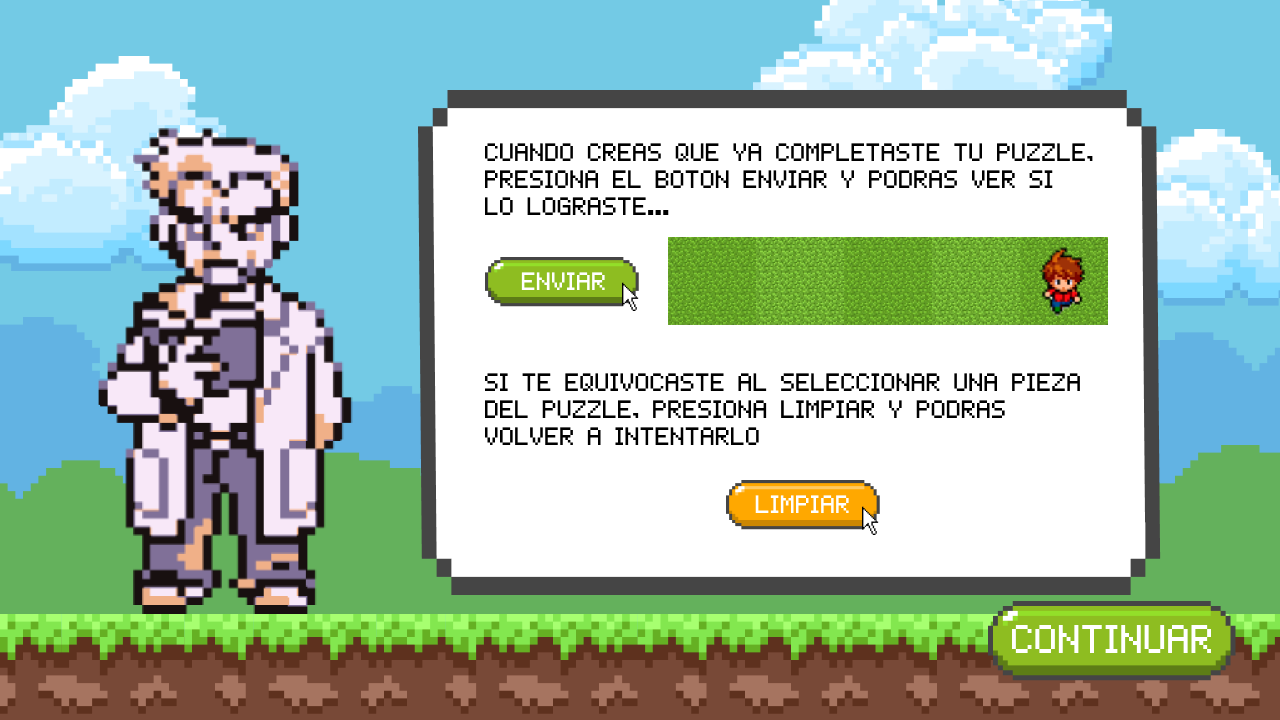
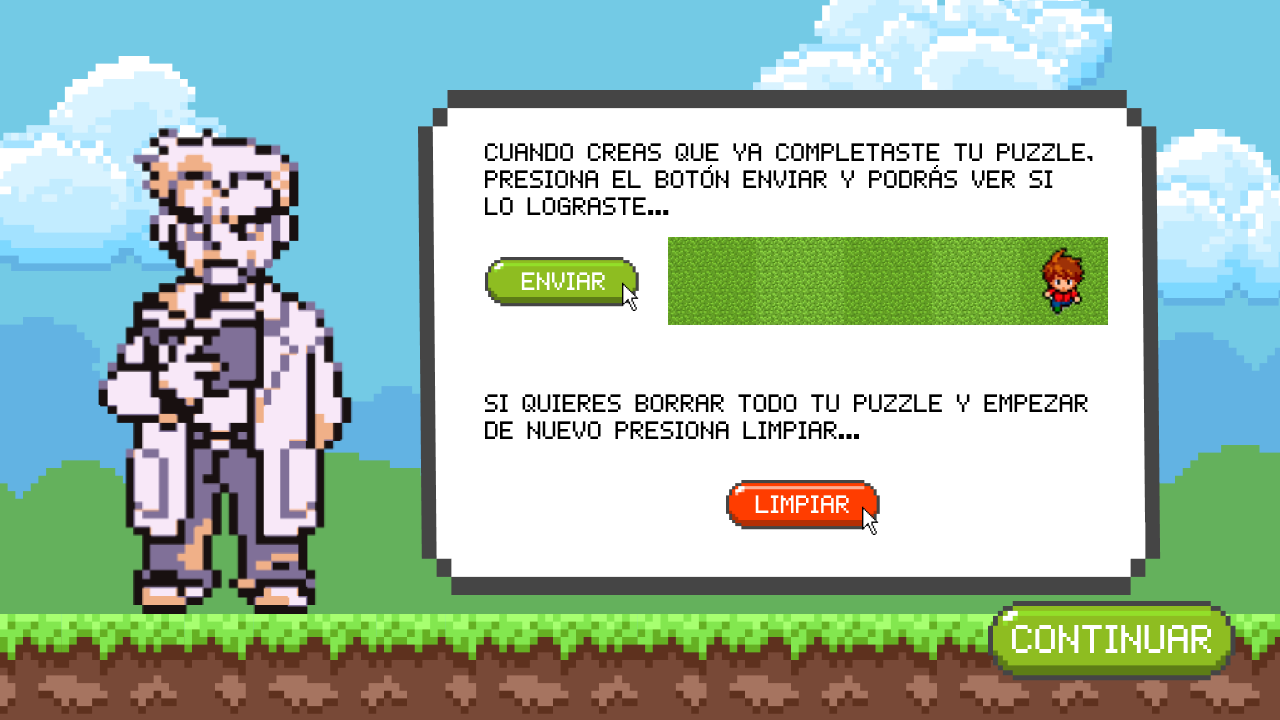
multiples correciones en bloques e imágenes

Changed region(s): [[0.375, 0.5194, 0.8438, 0.6417], [0.5625, 0.6722, 0.6875, 0.7333]]

diff --git a/src/components/Actividad/src/Game.js b/src/components/Actividad/src/Game.js
@@ -9,18 +9,18 @@ class Game {
         this.tutorial4 = null;
         this.tutorial5 = null;
         this.tutorial6 = null;
+        this.intro1=null;
 
         this.valid = false;
 
         this.playerX = 80;
         this.playerY = 146;
         this.side = 1;
-        this.screen = 7;
 
         this.screen = null;
         this.level1 = null;
 
-        this.screen = 7;
+        this.screen = 0;
         this.levelActivated = null;
         this.arrayBloques = [];
         this.allowTimer = false;
@@ -57,6 +57,7 @@ class Game {
         this.tutorial4 = app.loadImage("/game/tutorial4.png");
         this.tutorial5 = app.loadImage("/game/tutorial5.png");
         this.tutorial6 = app.loadImage("/game/tutorial6.png");
+        this.intro1=app.loadImage("/game/intro1.png");
         this.level1 = app.loadImage("/game/level1.png");
 
         this.playerF = app.loadImage("/game/characterfoward.png");
@@ -177,6 +178,16 @@ class Game {
 
                 break;
             case 7:
+                if (
+                    app.mouseX > 988 &&
+                    app.mouseX < 1236 &&
+                    app.mouseY > 601 &&
+                    app.mouseY < 680
+                ) {
+                    this.screen = 8;
+                }
+
+            case 8:
                 this.levelActivated = true;
                 this.allowTimer = true;
                 this.blocks(app);
@@ -208,6 +219,10 @@ class Game {
                 app.image(this.tutorial6, 0, 0);
                 break;
             case 7:
+                app.image(this.intro1, 0, 0);
+                break;
+
+            case 8:
 
                 app.image(this.level1, 0, 0);
                 if (this.life == 3) {
@@ -247,7 +262,7 @@ class Game {
                     this.validation(app);
 
                 }
-
+                break;
         }
     }
 
@@ -503,39 +518,39 @@ class Game {
     blocks(app) {
         if (this.levelActivated) {
             if (
-                app.mouseX > 852 &&
-                app.mouseX < 1006 &&
-                app.mouseY > 211 &&
-                app.mouseY < 245
+                app.mouseX > 859 &&
+                app.mouseX < 961 &&
+                app.mouseY > 305 &&
+                app.mouseY < 339
             ) {
-                console.log("DERECHA");
-                let codeRight = 1;
-                this.arrayBloques.push(codeRight);
-                console.log("arrayBloques= " + this.arrayBloques);
-            }
-
-            if (app.mouseX > 852 && app.mouseX < 1006 && app.mouseY > 278 && app.mouseY < 312) {
                 console.log("IZQUIERDA");
-                let codeLeft = 2;
+                let codeLeft = 1;
                 this.arrayBloques.push(codeLeft);
                 console.log("arrayBloques= " + this.arrayBloques);
             }
 
-            if (app.mouseX > 852 && app.mouseX < 1006 && app.mouseY > 345 && app.mouseY < 379) {
+            if (app.mouseX > 859 && app.mouseX < 961 && app.mouseY > 353 && app.mouseY < 387) {
+                console.log("DERECHA");
+                let codeRight = 2;
+                this.arrayBloques.push(codeRight);
+                console.log("arrayBloques= " + this.arrayBloques);
+            }
+
+            if (app.mouseX > 859 && app.mouseX < 961 && app.mouseY > 401 && app.mouseY < 435) {
                 console.log("ARRIBA");
                 let codeUp = 3;
                 this.arrayBloques.push(codeUp);
                 console.log("arrayBloques= " + this.arrayBloques);
             }
 
-            if (app.mouseX > 852 && app.mouseX < 1006 && app.mouseY > 412 && app.mouseY < 446) {
+            if (app.mouseX > 859 && app.mouseX < 961 && app.mouseY > 449 && app.mouseY < 483) {
                 console.log("ABAJO");
                 let codeDown = 4;
                 this.arrayBloques.push(codeDown);
                 console.log("arrayBloques= " + this.arrayBloques);
             }
 
-            if (app.mouseX > 1025 && app.mouseX < 1104 && app.mouseY > 211 && app.mouseY < 245) {
+            if (app.mouseX > 969 && app.mouseX < 1071 && app.mouseY > 305 && app.mouseY < 339) {
                 console.log("UNA VEZ")
 
                 let codeOne = 5;
@@ -543,7 +558,7 @@ class Game {
                 console.log("arrayBloques= " + this.arrayBloques);
             }
 
-            if (app.mouseX > 1025 && app.mouseX < 1104 && app.mouseY > 278 && app.mouseY < 312) {
+            if (app.mouseX > 969 && app.mouseX < 1071 && app.mouseY > 353 && app.mouseY < 387) {
                 console.log("DOS VECES");
 
                 let codeTwo = 6;
@@ -551,7 +566,7 @@ class Game {
                 console.log("arrayBloques= " + this.arrayBloques);
             }
 
-            if (app.mouseX > 1025 && app.mouseX < 1104 && app.mouseY > 345 && app.mouseY < 379) {
+            if (app.mouseX > 969 && app.mouseX < 1071 && app.mouseY > 401 && app.mouseY < 435) {
                 console.log("TRES VECES");
 
                 let codeThree = 7;
@@ -559,7 +574,7 @@ class Game {
                 console.log("arrayBloques= " + this.arrayBloques);
             }
 
-            if (app.mouseX > 1121 && app.mouseX < 1200 && app.mouseY > 211 && app.mouseY < 245) {
+            if (app.mouseX > 969 && app.mouseX < 1071 && app.mouseY > 449 && app.mouseY < 483) {
                 console.log("CUATRO VECES");
 
                 let codeFour = 8;
@@ -567,7 +582,7 @@ class Game {
                 console.log("arrayBloques= " + this.arrayBloques);
             }
 
-            if (app.mouseX > 1121 && app.mouseX < 1200 && app.mouseY > 278 && app.mouseY < 312) {
+            if (app.mouseX > 1079 && app.mouseX < 1181 && app.mouseY > 305 && app.mouseY < 339) {
                 console.log("CINCO VECES");
 
                 let codeFive = 9;
@@ -575,7 +590,7 @@ class Game {
                 console.log("arrayBloques= " + this.arrayBloques);
             }
 
-            if (app.mouseX > 1121 && app.mouseX < 1200 && app.mouseY > 345 && app.mouseY < 379) {
+            if (app.mouseX > 1079 && app.mouseX < 1181 && app.mouseY > 353 && app.mouseY < 387) {
                 console.log("SEIS VECES")
 
                 let codeSix = 10;
@@ -583,7 +598,7 @@ class Game {
                 console.log("arrayBloques= " + this.arrayBloques);
             }
 
-            if (app.mouseX > 1022 && app.mouseX < 1106 && app.mouseY > 412 && app.mouseY < 446) {
+            if (app.mouseX > 1079 && app.mouseX < 1181 && app.mouseY > 401 && app.mouseY < 435) {
                 console.log("CAPTURAR");
 
                 let codeCapture = 11;
@@ -591,7 +606,7 @@ class Game {
                 console.log("arrayBloques= " + this.arrayBloques);
             }
 
-            if (app.mouseX > 1115 && app.mouseX < 1199 && app.mouseY > 412 && app.mouseY < 446) {
+            if (app.mouseX > 1079 && app.mouseX < 1181 && app.mouseY > 449 && app.mouseY < 483) {
                 console.log("LIBERAR");
 
                 let codeFree = 12;
@@ -638,51 +653,51 @@ class Game {
             for (let index = 0; index < this.arrayBloques.length; index++) {
 
                 if (this.arrayBloques[index] == 1) {
-                    app.image(this.block1, posx + (140 * index), 570);
+                    app.image(this.block1, posx + (89 * index), 570);
                 }
 
                 if (this.arrayBloques[index] == 2) {
-                    app.image(this.block2, posx + (140 * index), 570);
+                    app.image(this.block2, posx + (89 * index), 570);
                 }
 
                 if (this.arrayBloques[index] == 3) {
-                    app.image(this.block3, posx + (140 * index), 570);
+                    app.image(this.block3, posx + (89 * index), 570);
                 }
 
                 if (this.arrayBloques[index] == 4) {
-                    app.image(this.block4, posx + (140 * index), 570);
+                    app.image(this.block4, posx + (89 * index), 570);
                 }
 
                 if (this.arrayBloques[index] == 5) {
-                    app.image(this.block5, posx + (140 * index), 570);
+                    app.image(this.block5, posx + (89 * index), 570);
                 }
 
                 if (this.arrayBloques[index] == 6) {
-                    app.image(this.block6, posx + (140 * index), 570);
+                    app.image(this.block6, posx + (89 * index), 570);
                 }
 
                 if (this.arrayBloques[index] == 7) {
-                    app.image(this.block7, posx + (140 * index), 570);
+                    app.image(this.block7, posx + (89 * index), 570);
                 }
 
                 if (this.arrayBloques[index] == 8) {
-                    app.image(this.block8, posx + (140 * index), 570);
+                    app.image(this.block8, posx + (89 * index), 570);
                 }
 
                 if (this.arrayBloques[index] == 9) {
-                    app.image(this.block9, posx + (140 * index), 570);
+                    app.image(this.block9, posx + (89 * index), 570);
                 }
 
                 if (this.arrayBloques[index] == 10) {
-                    app.image(this.block10, posx + (140 * index), 570);
+                    app.image(this.block10, posx + (89 * index), 570);
                 }
 
                 if (this.arrayBloques[index] == 11) {
-                    app.image(this.block11, posx + (140 * index), 570);
+                    app.image(this.block11, posx + (89 * index), 570);
                 }
 
                 if (this.arrayBloques[index] == 12) {
-                    app.image(this.block12, posx + (140 * index), 570);
+                    app.image(this.block12, posx + (89 * index), 570);
                 }
             }
         }
